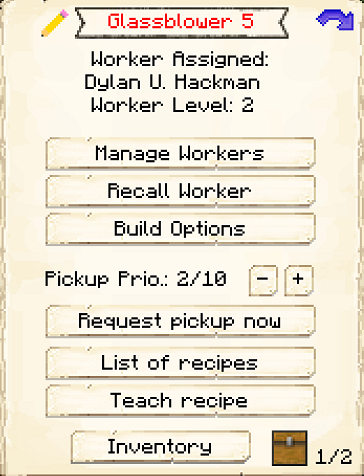
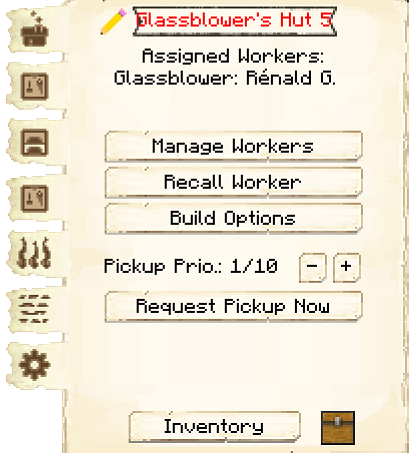
Glassblower Update (#781)

diff --git a/pages/src/source/buildings/glassblower.md b/pages/src/source/buildings/glassblower.md
@@ -4,21 +4,7 @@ layout: default
 ---
 # Glassblower's Hut
 
-<div class="infobox box text-center">
-    <img src="../../assets/images/buildings/glassblower.png" alt="Glassblower" />
-    <hr />
-    <div class="row section-text text-left">
-        <div class="col">
-        <p><strong>Worker:</strong></p>
-        </div>
-        <div class="col">
-        <p><a href="../workers/glassblower">Glassblower</a></p>
-        </div>
-    </div>
-    <hr />
-    <recipe>glassblower</recipe>
-</div>
-
+{% capture content %}
 ### Note: The Glassblower's Hut cannot be built until you have a level 3 [Smeltery](../../source/buildings/smeltery) (or three level 1 Smelteries, or another equivalent) and have finished the research in the [University](../../source/buildings/university).
 <br>
 
@@ -35,7 +21,6 @@ The Glassblower's Hut is where the Glassblower will smelt sand into glass and ma
 | 4 | 80 | 
 | 5 | 160 | 
 
-<br>
 
 **Hint:** The higher the level of the Glassblower's Hut, the more furnaces the Glassblower will have available. The number of furnaces they *use* depends on their Creativity level. So:
 
@@ -50,26 +35,28 @@ The Glassblower's Hut is where the Glassblower will smelt sand into glass and ma
 
 
 **Hint:** The higher the Glassblower's Focus level, the faster things will smelt. At high levels, they can go *much* faster than the player!
+{% endcapture %}
+{% capture infobox %}
+{% include infobox/building.html worker="glassblower" recipes="glassblower" image="../../assets/images/buildings/glassblower.png" alt="Glassblower's Hut" %}
+{% endcapture %}
+{% include page-infobox-wrapper.html content=content infobox=infobox %}
 
 ## Glassblower's Hut GUI
 
-When accessing the Glassblower's Hut block by right-clicking on it, you will see a GUI with different options:
-
 <div class="row">
-  <div class="col-sm-12 col-md">
-    <img src="../../assets/images/gui/glassblowergui1.png" class="img-fluid mx-auto" alt="Glassblower GUI">
-  </div>
-  <div class="col-sm-12 col-md">
-    <br>
-    <ul>
-      {% for item in site.data.gui.global %}
-        <li><strong>{{ item.button }}:</strong> {{ item.content }}</li>
-      {% endfor %}
-    </ul>
+  <div class="col">
+  {% include contentblock/main-gui.html header="When accessing the Glassblower's Hut block by right-clicking on it, you will see a GUI with different options. You start on the main tab:" image="../../assets/images/gui/glassblowergui1.png" %}
+
+  {% include contentblock/basic.html header="The second tab of the GUI is <strong>Crafting Recipes</strong>." content="Here you can see all the crafting recipes this hut knows.  The arrows allow you to move them up or down in priority.  You are also able to disable specific recipes.<p><strong> Teach Recipe:</strong> When clicking teach recipe, it opens a crafting grid which allows you to teach this hut recipes (not the worker).</p>" image="../../assets/images/gui/glassblowergui2.png" %}
+
+  {% include contentblock/basic.html header="The third tab of the GUI is <strong>Smelting Recipes</strong>." content="Here you can see all the smelting recipes this hut knows.  The arrows allow you to move them up or down in priority.  You are also able to remove any recipes you've taught them.<p><strong> Teach Recipe:</strong> When clicking teach recipe, it opens a furnace grid which allows you to teach this hut recipes (not the worker).  Place the item to smelt in the upper slot.</p>" image="../../assets/images/gui/glassblowergui3.png" %}
+
+  {% include contentblock/basic.html header="The fourth tab of the GUI is <strong>Custom Recipes</strong>." content="Here you can see all the <a href='../items/shingles'>Architect Cutter</a> recipes this hut knows.  The arrows allow you to move them up or down in priority.  You are also able to disable specific recipes.<p><strong> Teach Recipe:</strong> When clicking teach recipe, it opens a crafting grid for the Architect Cutter.  Input 1 is the top left slot of the cutter, input 2 is the top right, and input 3 the bottom left slot in the cutter. When you have put the items in the slots, you will see various items below the input slots, the sawmill can create ALL of those items from the recipe you have input.</p>" image="../../assets/images/gui/glassblowergui4.png" %}
+
+  {% include contentblock/basic.html header="The fifth tab of the GUI is <strong>Fuel</strong>." content="Listed here are items that can be used by the Glassblower as fuel in their furnaces. Simply turn on any that you want your Glassblower to use, and a Courier will deliver those items to the Baker when they need fuel.  All items are off by default.  The black box at the top is to search for items." image="../../assets/images/gui/glassblowergui5.png" %}
+
+  {% include contentblock/basic.html header="The sixth tab of the GUI is <strong>Tasks</strong>." content="This tab shows you any requests the hut is working on, and where it is going." image="../../assets/images/gui/glassblowergui6.png" %}
+
+  {% include contentblock/settings-gui.html settingskey="glassblower" header="The seventh tab of the GUI is <strong>Settings</strong>." image="../../assets/images/gui/glassblowergui7.png" %}
   </div>
 </div>
-<br> <br>
-
-Listed on page two of the GUI are items that can be used by the Glassblower as fuel in their furnaces. Turn on any that you want your Glassblower to use, and a Courier will deliver those items to the Glassblower when they need fuel. (The black box at the top is to search for items.)
-
- <img src="../../assets/images/gui/glassblowergui2.png" alt="Glassblower GUI Page 2" />
